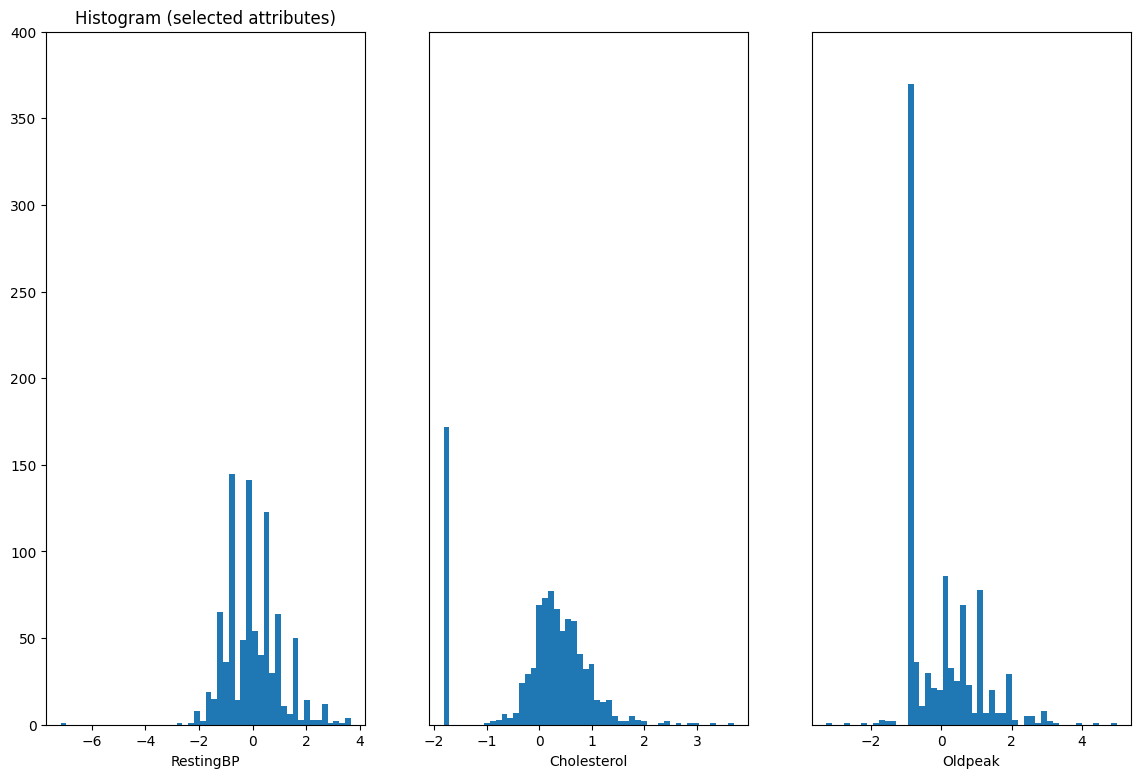
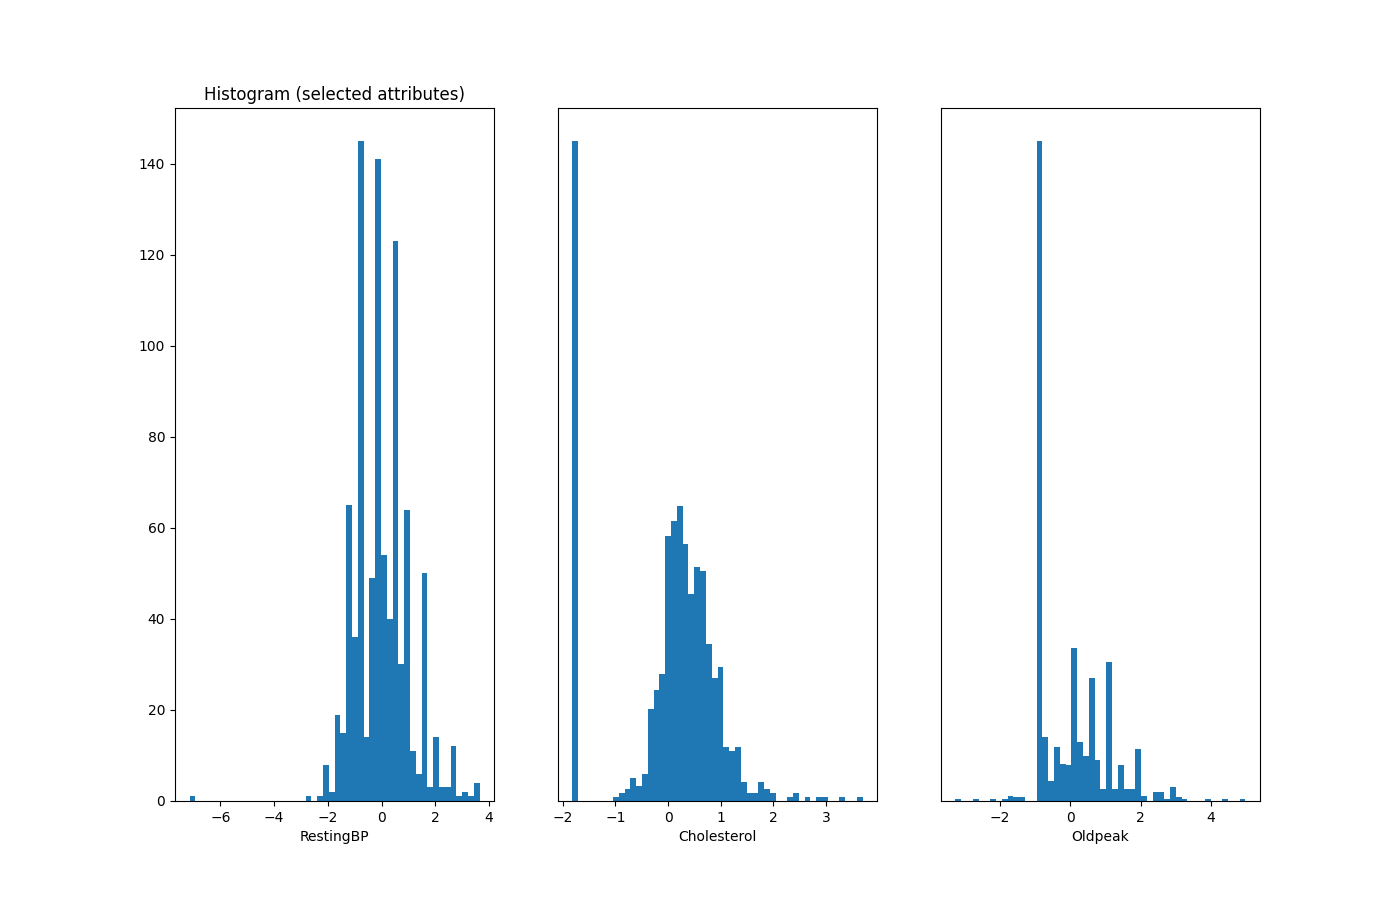
hist2

diff --git a/Project/clara.py b/Project/clara.py
@@ -9,8 +9,6 @@ from matplotlib.pyplot import figure, subplot, savefig, hist, ylim, title, plot,
 [X, y, attributeNames] = data.get_data_matrix() #matrix of continous values
 #[X_cont, attributeNames_cont] = data.get_cont_matrix(X, attributeNames)
 
-# Oldpeak is column 9, we convert it to positive
-#X[:,9] = np.abs(X[:,9])
 
 not_cont_att = [1, 2, 5, 6, 8, 10]
 X_cont = np.delete(X, not_cont_att, axis=1)
@@ -30,7 +28,7 @@ for i in range(len(m)):
     subplot(1,len(m),i+1)
     hist(X_standard[:,m[i]],50)
     xlabel(attributeNames_cont[m[i]])
-    ylim(0, 400) # Make the y-axes equal for improved readability
+    #ylim(0, 400) # Make the y-axes equal for improved readability
     if i>0: yticks([])
     if i==0: title('Histogram (selected attributes)')
 savefig('hist_selected_attrs.png')
